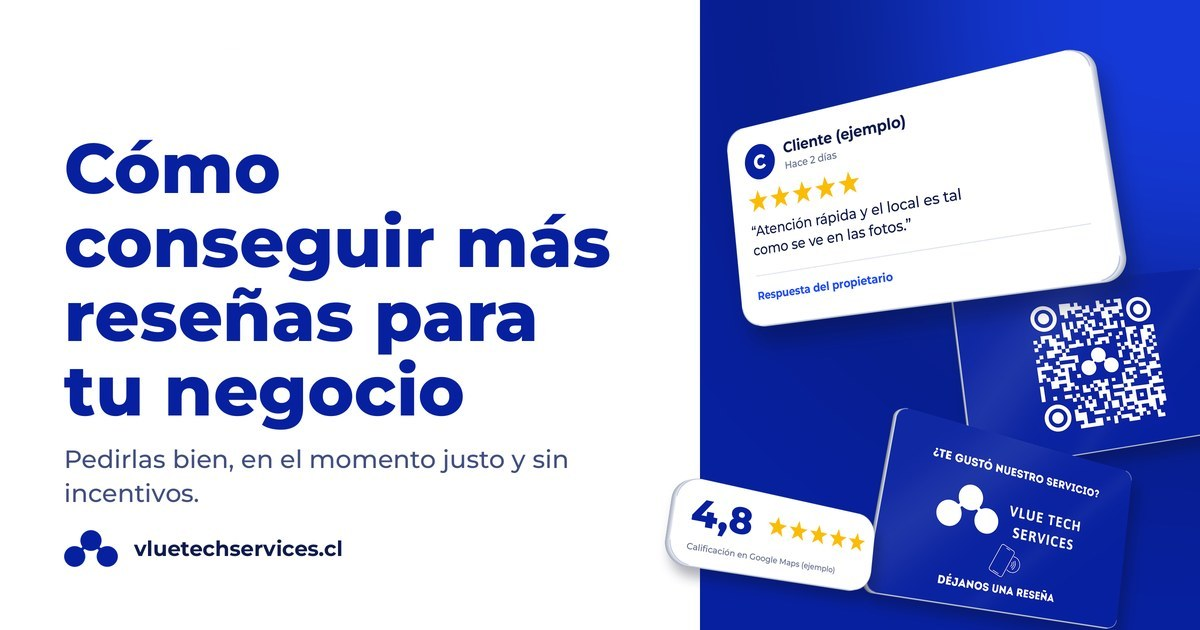
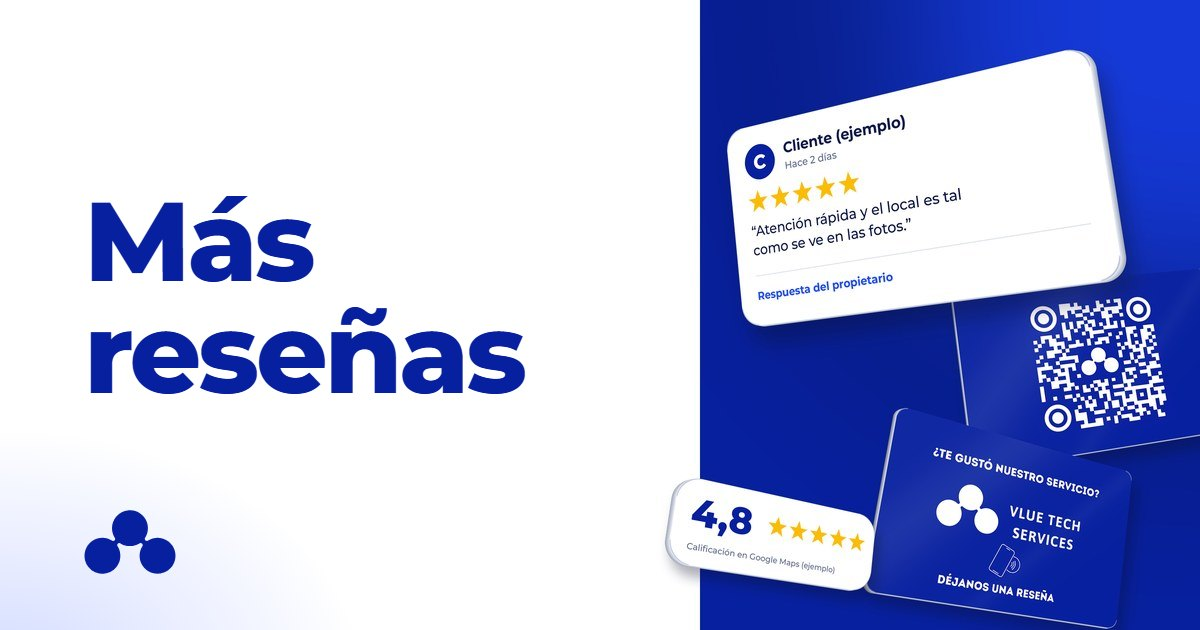
Portadas con poco texto y acciones de publicación actualizadas (Node 24)

Changed region(s): [[0.0308, 0.2111, 0.5242, 0.6937], [0.0, 0.6937, 0.4933, 1.0]]

diff --git a/herramientas/og/plantilla-portada.html b/herramientas/og/plantilla-portada.html
@@ -1,0 +1,23 @@
+<!DOCTYPE html>
+<!-- Portada de artículo con poco texto: el visual de la derecha + 2 o 3 palabras grandes + el símbolo de Vlue.
+     FONDO = imagen 1200x630 con el visual a la derecha. PALABRAS = texto corto (usar <br> para cortar).
+     TAPAR = ancho (px) de la zona blanca que se limpia a la izquierda. -->
+<html lang="es"><head><meta charset="utf-8">
+<link href="https://fonts.googleapis.com/css2?family=Montserrat:wght@800&display=block" rel="stylesheet">
+<style>
+*{margin:0;padding:0;box-sizing:border-box}
+html,body{width:1200px;height:630px;overflow:hidden;background:#fff}
+.fondo{position:absolute;inset:0;background:url(FONDO) 0 0/1200px 630px no-repeat}
+/* Limpia el texto original de la izquierda sin tocar el visual */
+.tapa{position:absolute;left:0;top:0;bottom:0;width:TAPARpx;background:#fff}
+.brillo{position:absolute;left:0;top:0;bottom:0;width:TAPARpx;background:radial-gradient(ellipse 520px 360px at 0% 108%,rgba(31,75,255,.20),rgba(31,75,255,0) 70%)}
+h1{position:absolute;left:84px;top:50%;transform:translateY(-58%);font:800 112px/1 Montserrat,sans-serif;letter-spacing:-.03em;color:#07209f}
+.simbolo{position:absolute;left:84px;bottom:56px;width:92px;aspect-ratio:652/456;background:#07209f;-webkit-mask:url(SIMBOLO) center/contain no-repeat;mask:url(SIMBOLO) center/contain no-repeat}
+</style></head>
+<body>
+<div class="fondo"></div>
+<div class="tapa"></div>
+<div class="brillo"></div>
+<h1>PALABRAS</h1>
+<div class="simbolo"></div>
+</body></html>
